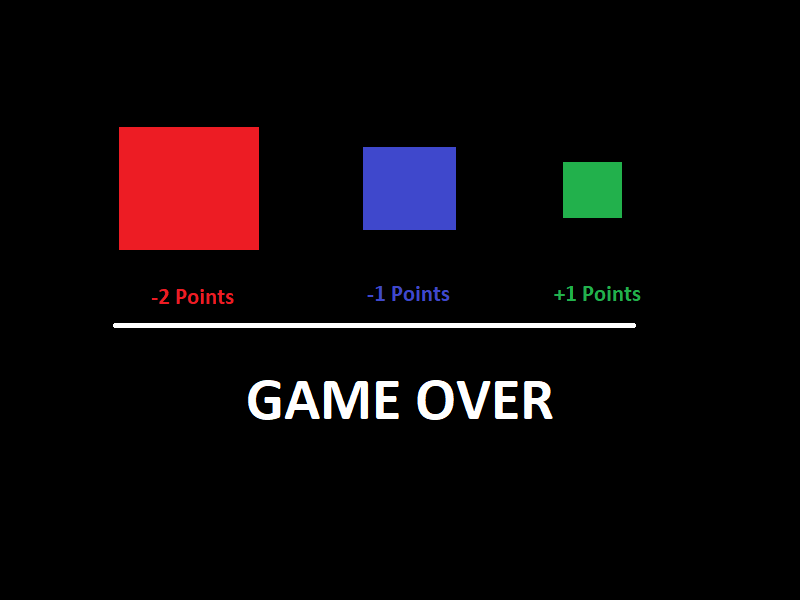
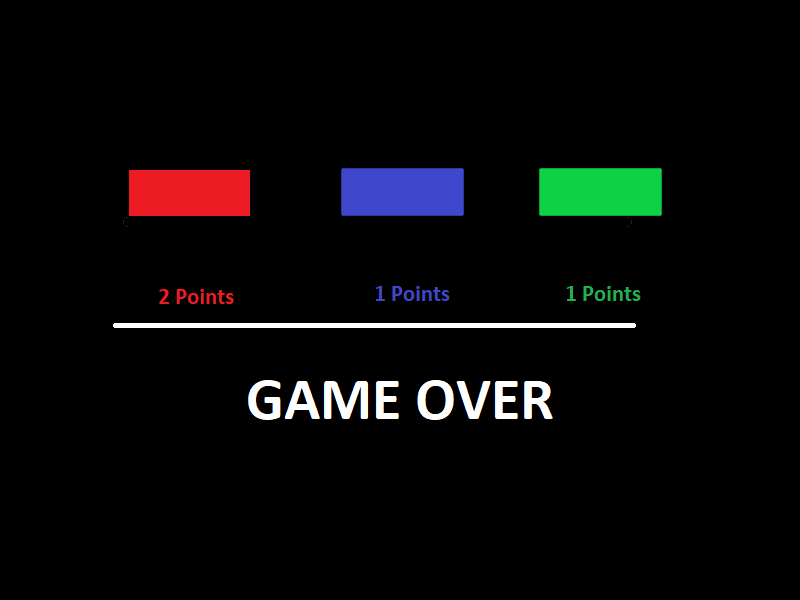
all blocks dissapear and ball is bouncing

diff --git a/Game.java b/Game.java
@@ -14,12 +14,15 @@ public class Game {
 	private ArrayList<BlueBox> blueBlocks;
 	private ArrayList<GreenBox> greenBlocks;
 
-	private int tickCount=0;
+	private int tickCount;
 	private int points;
+	private int timePoints;
 	public int pointsMax;
+	private int blocksGenerated=30;
 	public Game(GameBoard board) {
-		
-		points=100;
+		timePoints 	= 100;
+		points		= 100;
+		tickCount	= 0;
 		
 		ball = new Ball(380, 300, Const.BALLSIZE, Const.BALLSIZE);
 		player = new Player(350, 500, Const.PLAYER_WIDTH, Const.PLAYER_HEIGHT, Color.orange);
@@ -42,47 +45,69 @@ public class Game {
 		if(points>pointsMax) {
 			pointsMax=points;		
 		}
+		if(tickCount%100==0) {
+			timePoints--;
+		}
 		
 		if(ball.isCollidingPlayer(player)) {
-			ball.setDirectionY(Const.BALL_DIRECTION);
+			//check where ball lands on plattform and from that position gives or take away speed 
+			if((ball.getX()>(player.getX()+(player.getWidth()/3)))&&(ball.getX()<(player.getX()+(player.getWidth()/3*2)))) {
+				ball.setDirectionY(ball.getDirectionY()*ball.getDirection());
+				if(ball.getDirectionX()>0) {
+					ball.setDirectionX((ball.getDirectionX()-1));
+				}else {
+					ball.setDirectionX((ball.getDirectionX()+1));
+				}
+				System.out.println("Mitten");
+			}else if(ball.getDirectionX()<0){
+				ball.setDirectionY(ball.getDirectionY()*ball.getDirection());
+				ball.setDirectionX(ball.getDirectionX()-1);
+			}else {
+				ball.setDirectionY(ball.getDirectionY()*ball.getDirection());
+				ball.setDirectionX(ball.getDirectionX()+1);
+			}
 		}
 		
-		for(int i=redBlocks.size()-1; i>0; i--) {
+		//blockcolision detection
+		for(int i=redBlocks.size()-1; i>=0; i--) {
 			redBlocks.get(i).update(keyboard);
 			if(ball.isCollidingRed(redBlocks.get(i))) {
-				ball.setDirectionY(Const.BALL_DIRECTION);
+				ball.setDirectionY(ball.getDirectionY()*ball.getDirection());
+				points+=2;
+				System.out.println("points+2 : "+points); 
 				redBlocks.remove(redBlocks.get(i));
+				blocksGenerated--;
+				
 				}
 			}
-		for(int i=blueBlocks.size()-1; i>0; i--) {
+		for(int i=blueBlocks.size()-1; i>=0; i--) {
 			blueBlocks.get(i).update(keyboard);
 			if(ball.isCollidingBlue(blueBlocks.get(i))) {
-				ball.setDirectionY(Const.BALL_DIRECTION);
-				redBlocks.remove(redBlocks.get(i));
+				ball.setDirectionY(ball.getDirectionY()*ball.getDirection());
+				points++;
+				System.out.println("points+1 : "+points); 
+				blueBlocks.remove(blueBlocks.get(i));
+				blocksGenerated--;
 				}
 			}
 		
-		for(int i=greenBlocks.size()-1; i>0; i--) {
+		for(int i=greenBlocks.size()-1; i>=0; i--) {
 			greenBlocks.get(i).update(keyboard);
 			if(ball.isCollidingGreen(greenBlocks.get(i))) {
-				ball.setDirectionY(Const.BALL_DIRECTION*-1);
-				System.out.println("test");
+				ball.setDirectionY(ball.getDirectionY()*ball.getDirection());
+				points++;
+				System.out.println("points+1 : "+points); 
 				greenBlocks.remove(greenBlocks.get(i));
+				blocksGenerated--;
 			}
 		}
 		
-	/*	for(GreenBox cubes: greenBlocks) {
-			cubes.update(keyboard);
-			if(ball.isCollidingGreen(cubes)) {
-				
-				
-			}
-		}*/
-		if(points<0) {
+	
+		if(points<0||timePoints<0) {
 			System.out.println("GameOver!");
 			gameOn=false;
 		}
-		if(points>200) {
+		if(blocksGenerated==0) {
 			gameWin=true;
 		}
 		tickCount++;
@@ -92,6 +117,8 @@ public class Game {
 		Images i = new Images();
 		player.draw(graphics);
 		ball.draw(graphics);
+		
+		
 		
 		for(RedBox cubes: redBlocks) {
 		cubes.draw(graphics);
@@ -103,8 +130,10 @@ public class Game {
 			cubes.draw(graphics);
 		}
 		if(!gameOn) {
-			System.out.println(pointsMax);
-			i.gameOverScreen(graphics, pointsMax);
+			System.out.println(pointsMax+timePoints);
+			i.gameOverScreen(graphics, (pointsMax+timePoints));
+			FileHandler file = new FileHandler(pointsMax+timePoints);
+			
 			
 		}
 		if(gameWin) {

diff --git a/Ball.java b/Ball.java
@@ -3,9 +3,9 @@ import java.awt.Graphics2D;
 import java.awt.Rectangle;
 
 public class Ball extends Sprite{
-
-	private int directionX=Const.BALL_DIRECTION;
-	private int directionY=Const.BALL_DIRECTION;
+	private int direction=-1;
+	private int directionX=Const.BALL_SPEED*direction;
+	private int directionY=Const.BALL_SPEED*direction;
 	//private Rectangle ballBox = new Rectangle(getX(), getY(), getWidth(), getHeight());
 	public Ball(int x, int y, int width, int height) {
 		super(x, y, width, height);
@@ -31,23 +31,8 @@ public class Ball extends Sprite{
 		
 		
 	}
-
-	public int getDirectionX() {
-		return directionX;
-	}
-
-	public void setDirectionX(int directionX) {
-		this.directionX = directionX;
-	}
-
-	public int getDirectionY() {
-		return directionY;
-	}
-
-	public void setDirectionY(int directionY) {
-		this.directionY = directionY;
-	}
-
+	
+	
 	@Override
 	public void draw(Graphics2D graphics) {
 		graphics.setColor(Color.cyan);
@@ -81,4 +66,27 @@ public class Ball extends Sprite{
 	
 	}
 
+
+	public int getDirection() {
+		return direction;
+	}
+
+	public void setDirection(int direction) {
+		this.direction = direction;
+	}
+	public int getDirectionX() {
+		return directionX;
+	}
+
+	public void setDirectionX(int directionX) {
+		this.directionX = directionX;
+	}
+
+	public int getDirectionY() {
+		return directionY;
+	}
+
+	public void setDirectionY(int directionY) {
+		this.directionY = directionY;
+	}
 }

diff --git a/FileHandler.java b/FileHandler.java
@@ -1,0 +1,33 @@
+import java.io.File;
+import java.io.FileNotFoundException;
+import java.io.FileWriter;
+import java.io.IOException;
+import java.util.ArrayList;
+import java.util.Scanner;
+
+public class FileHandler {
+	
+	public FileHandler(int pointsMax) {
+		try {
+		FileWriter myFileWriter = new FileWriter("Highscore.txt", true);
+		myFileWriter.write("Score : "+pointsMax +"\n");
+		myFileWriter.close();
+		} catch (IOException e) {
+			System.out.println("Error writing to file.");
+			e.printStackTrace();
+		}
+	}
+	public void FileReader() {
+		try {
+			File highscoreList = new File("Highscore.txt");
+			Scanner scan = new Scanner(highscoreList);
+			while (scan.hasNextLine()) {
+				String list = scan.nextLine();
+				System.out.println(list);
+			}
+		} catch (FileNotFoundException e) {
+			// TODO Auto-generated catch block
+			e.printStackTrace();
+		}
+	}
+}

diff --git a/Const.java b/Const.java
@@ -4,5 +4,5 @@ public class Const {
 	public static final int BALLSIZE = 20;
 	public static final int PLAYER_WIDTH = 100;
 	public static final int PLAYER_HEIGHT = 10;
-	public static final int BALL_DIRECTION = -5;
+	public static final int BALL_SPEED = 5;
 }

diff --git a/Images.java b/Images.java
@@ -29,7 +29,7 @@ public class Images{
 		
 		graphics.drawImage(win, 0, 0, null);
 		graphics.setColor(Color.white);
-		graphics.drawString("You WIN!!", 500, 300);
+		graphics.drawString("You WIN!!", 300, 500);
 		
 	}
 
